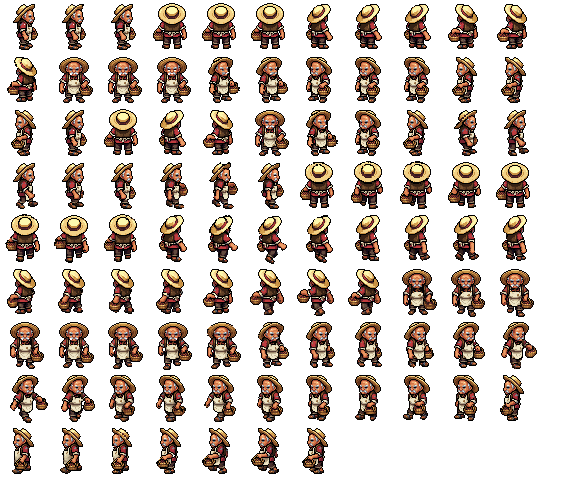
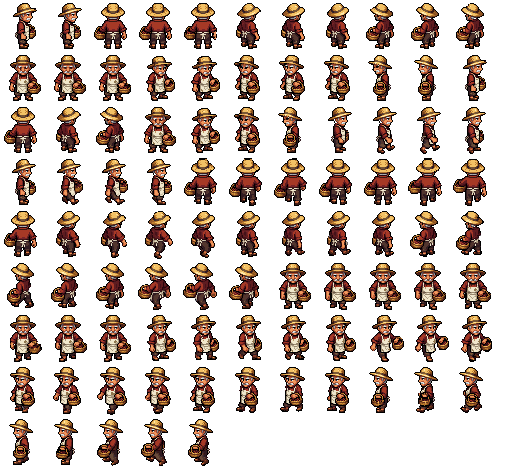
Repack the cook's sheet from the new base
Claude-Session: https://claude.ai/code/session_01H8JDTPYztrZvUL5HBCK6eR

diff --git a/src/content/assets/topdownSheets.ts b/src/content/assets/topdownSheets.ts
@@ -793,10 +793,10 @@ export const TOPDOWN_SHEETS: Readonly<Record<TopdownName, TopdownSheetData>> = {
   },
   cook: {
     pages: 1,
-    frame: { w: 48, h: 52 },
-    anchor: { x: 0.5, y: 0.942308 },
+    frame: { w: 44, h: 51 },
+    anchor: { x: 0.5, y: 0.941176 },
     footprint: 1,
-    idleCels: [3, 2, 3, 3, 3, 3, 3, 3],
+    idleCels: [2, 2, 3, 3, 2, 3, 3, 3],
     idleMs: 420,
     walkCels: [8, 8, 8, 8, 8, 8, 8, 8],
     walkCelMs: 28.846,

diff --git a/scripts/art/topdown/pack-sheets.ts b/scripts/art/topdown/pack-sheets.ts
@@ -756,8 +756,8 @@ const ROSTER: readonly FigureSpec[] = [
     name: 'cook',
     key: 'npc.cook',
     folder: 'rg02_cook',
-    idle: 'custom-standing at rest: the chest an@b496a9',
-    walk: 'walking-8-frames@a28548',
+    idle: 'custom-standing at rest: the chest an@66be8a',
+    walk: 'walking-8-frames@dc5921',
     stride: 30,
     actions: {},
     timing: 'blow',
